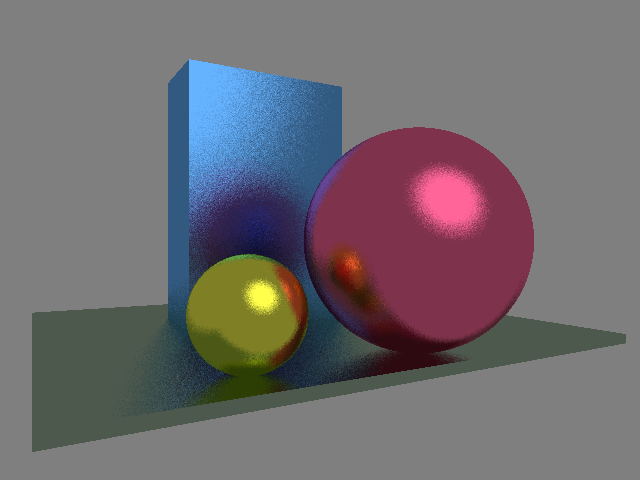
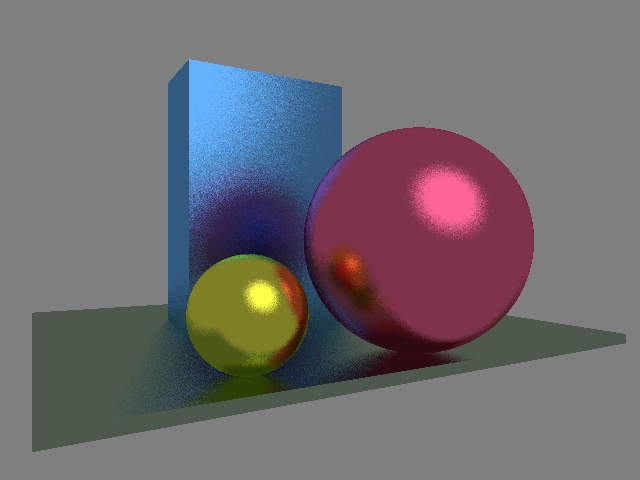
refactor(ray_tracer.c): replace vector operations with macros for clarity and performance   refactor(ray_tracer.c): consolidate object initialization by using arrays   refactor(ray_tracer.c): improve ray tracing logic by optimizing intersections and reflections   chore(ray_tracer.c): clean up commen

diff --git a/ray_tracer.c b/ray_tracer.c
@@ -1,9 +1,8 @@
 #include <stdio.h>
 #include <stdlib.h>
 #include <math.h>
-#include <string.h>
 
-// Include the stb_image_write header
+// stb_image_write.h included here
 #define STB_IMAGE_WRITE_IMPLEMENTATION
 #include "stb_image_write.h"
 
@@ -13,184 +12,137 @@
 #define MAX_DEPTH 3
 #define N_RAYS 10
 
+// Vector macros
+#define VEC_SUB(a,b,r) { r[0]=a[0]-b[0]; r[1]=a[1]-b[1]; r[2]=a[2]-b[2]; }
+#define VEC_ADD(a,b,r) { r[0]=a[0]+b[0]; r[1]=a[1]+b[1]; r[2]=a[2]+b[2]; }
+#define VEC_SCALE(v,s,r) { r[0]=v[0]*(s); r[1]=v[1]*(s); r[2]=v[2]*(s); }
+#define VEC_DOT(a,b) (a[0]*b[0]+a[1]*b[1]+a[2]*b[2])
+#define VEC_NORM(v) { double l=sqrt(VEC_DOT(v,v)); if(l>0){ v[0]/=l; v[1]/=l; v[2]/=l; } }
+
+// Random number between -1 and 1
+#define RAND_UNIFORM() (((double)rand() / RAND_MAX) * 2.0 - 1.0)
+
 // Ambient color
 double ambient_color[3] = {0.5, 0.5, 0.5};
 
-// Define object types
-typedef enum {
-    SPHERE,
-    BOX
-} ObjectType;
-
-// Object structure
-typedef struct {
-    ObjectType type;
-    double center[3]; // For spheres
-    double radius;    // For spheres
-    double min[3];    // For boxes
-    double max[3];    // For boxes
-    double color[3];
-    int hot;
-} Object;
-
-// Vector operations
-void vector_subtract(const double *a, const double *b, double *result) {
-    result[0] = a[0] - b[0];
-    result[1] = a[1] - b[1];
-    result[2] = a[2] - b[2];
-}
-
-void vector_add(const double *a, const double *b, double *result) {
-    result[0] = a[0] + b[0];
-    result[1] = a[1] + b[1];
-    result[2] = a[2] + b[2];
-}
-
-void vector_scale(const double *v, double scale, double *result) {
-    result[0] = v[0] * scale;
-    result[1] = v[1] * scale;
-    result[2] = v[2] * scale;
-}
-
-double vector_dot(const double *a, const double *b) {
-    return a[0]*b[0] + a[1]*b[1] + a[2]*b[2];
-}
-
-void vector_normalize(double *v) {
-    double norm = sqrt(vector_dot(v, v));
-    if (norm > 0) {
-        v[0] /= norm;
-        v[1] /= norm;
-        v[2] /= norm;
-    }
-}
-
-void vector_copy(const double *src, double *dest) {
-    dest[0] = src[0];
-    dest[1] = src[1];
-    dest[2] = src[2];
-}
-
-// Random number between -1 and 1
-double rand_uniform() {
-    return ((double)rand() / RAND_MAX) * 2.0 - 1.0;
-}
-
 // Sphere intersection
-int sphere_intersect(const double center[3], double radius, const double ray_origin[3], const double ray_direction[3],
+int sphere_intersect(const double center[3], double radius, const double ro[3], const double rd[3],
                      double *t_out, double point[3], double normal[3]) {
-    double z[3];
-    vector_subtract(center, ray_origin, z);
-    double proj = vector_dot(ray_direction, z);
-    double z_dot_z = vector_dot(z, z);
-    double delta = radius*radius + proj*proj - z_dot_z;
+    double oc[3]; VEC_SUB(ro, center, oc);
+    double b = VEC_DOT(oc, rd);
+    double c = VEC_DOT(oc, oc) - radius * radius;
+    double delta = b * b - c;
     if (delta < 0) return 0;
     double sqrt_delta = sqrt(delta);
-    double t = proj - sqrt_delta;
-    if (t < 1e-3) return 0;
+    double t = -b - sqrt_delta;
+    if (t < 1e-3) {
+        t = -b + sqrt_delta;
+        if (t < 1e-3) return 0;
+    }
     *t_out = t;
-    vector_scale(ray_direction, t, point);
-    vector_add(ray_origin, point, point);
-    vector_subtract(point, center, normal);
-    vector_scale(normal, 1.0 / radius, normal);
+    VEC_SCALE(rd, t, point); VEC_ADD(ro, point, point);
+    VEC_SUB(point, center, normal); VEC_NORM(normal);
     return 1;
 }
 
 // Box intersection
-int box_intersect(const double bmin[3], const double bmax[3], const double ray_origin[3], double ray_direction[3],
+int box_intersect(const double bmin[3], const double bmax[3], const double ro[3], const double rd[3],
                   double *t_out, double point[3], double normal[3]) {
     double tmin = -INFINITY, tmax = INFINITY;
     int hit_axis = -1;
     for (int i = 0; i < 3; i++) {
-        double direction = ray_direction[i];
-        if (fabs(direction) < 1e-3) direction = (direction >= 0) ? 1e-3 : -1e-3;
-        double invD = 1.0 / direction;
-        double t0 = (bmin[i] - ray_origin[i]) * invD;
-        double t1 = (bmax[i] - ray_origin[i]) * invD;
-        int sign = (invD < 0);
-        if (sign) {
-            double tmp = t0; t0 = t1; t1 = tmp;
-        }
+        double invD = 1.0 / rd[i];
+        double t0 = (bmin[i] - ro[i]) * invD;
+        double t1 = (bmax[i] - ro[i]) * invD;
+        if (invD < 0) { double tmp = t0; t0 = t1; t1 = tmp; }
         if (t0 > tmin) { tmin = t0; hit_axis = i; }
         if (t1 < tmax) tmax = t1;
         if (tmin > tmax) return 0;
     }
     if (tmin < 1e-3) return 0;
     *t_out = tmin;
-    vector_scale(ray_direction, tmin, point);
-    vector_add(ray_origin, point, point);
-    memset(normal, 0, 3 * sizeof(double));
-    normal[hit_axis] = -((ray_direction[hit_axis] > 0) ? 1 : -1);
+    VEC_SCALE(rd, tmin, point); VEC_ADD(ro, point, point);
+    normal[0] = normal[1] = normal[2] = 0;
+    normal[hit_axis] = (rd[hit_axis] > 0) ? -1 : 1;
     return 1;
 }
 
-// Scene intersection
-int scene_intersect(const double ray_origin[3], const double ray_direction[3],
-                    double point[3], double normal[3], double color[3], int *hot) {
-    int hit = 0;
-    double nearest = INFINITY;
-    double tmp_point[3], tmp_normal[3];
-    double t;
-    // Scene description
-    Object objects[] = {
-        {SPHERE, {6, 0, 7}, 2, {0}, {0}, {1.0, 0.4, 0.6}, 0},
-        {SPHERE, {2.8, 1.1, 7}, 0.9, {0}, {0}, {1.0, 1.0, 0.3}, 0},
-        {SPHERE, {5, -10, -7}, 8, {0}, {0}, {1.0, 1.0, 1.0}, 1},
-        {BOX, {0}, 0, {3, -4, 11}, {7, 2, 13}, {0.4, 0.7, 1.0}, 0},
-        {BOX, {0}, 0, {0, 2, 6}, {11, 2.2, 16}, {0.6, 0.7, 0.6}, 0}
-    };
-    int num_objects = sizeof(objects) / sizeof(Object);
-    for (int i = 0; i < num_objects; i++) {
-        Object *o = &objects[i];
-        int current_hit = 0;
-        if (o->type == SPHERE) {
-            current_hit = sphere_intersect(o->center, o->radius, ray_origin, ray_direction, &t, tmp_point, tmp_normal);
-        } else {
-            current_hit = box_intersect(o->min, o->max, ray_origin, ray_direction, &t, tmp_point, tmp_normal);
-        }
-        if (current_hit && t < nearest) {
-            nearest = t;
-            vector_copy(tmp_point, point);
-            vector_copy(tmp_normal, normal);
-            vector_copy(o->color, color);
-            *hot = o->hot;
-            hit = 1;
-        }
-    }
-    return hit;
-}
-
-// Reflect function
-void reflect(const double vector[3], const double normal[3], double result[3]) {
-    double dot = vector_dot(vector, normal);
-    double tmp[3];
-    vector_scale(normal, 2 * dot, tmp);
-    vector_subtract(vector, tmp, result);
-    // Add small random perturbation
-    double random_vec[3] = {rand_uniform() / 6.0, rand_uniform() / 6.0, rand_uniform() / 6.0};
-    vector_add(result, random_vec, result);
-    vector_normalize(result);
-}
-
 // Trace function
-void trace(const double ray_origin[3], const double ray_direction[3], int depth, double color_out[3]) {
+void trace(const double ro[3], const double rd[3], int depth, double color_out[3]) {
     if (depth > MAX_DEPTH) {
-        vector_copy(ambient_color, color_out);
+        color_out[0] = ambient_color[0];
+        color_out[1] = ambient_color[1];
+        color_out[2] = ambient_color[2];
         return;
     }
     double point[3], normal[3], color[3];
-    int hot = 0;
-    int hit = scene_intersect(ray_origin, ray_direction, point, normal, color, &hot);
+    int hot = 0, hit = 0;
+    double nearest = INFINITY, t;
+    double tmp_point[3], tmp_normal[3];
+
+    // Scene description
+    // Spheres
+    double spheres[3][7] = {
+        {6, 0, 7, 2, 1.0, 0.4, 0.6},
+        {2.8, 1.1, 7, 0.9, 1.0, 1.0, 0.3},
+        {5, -10, -7, 8, 1.0, 1.0, 1.0}
+    };
+    // Boxes
+    double boxes[2][9] = {
+        {3, -4, 11, 7, 2, 13, 0.4, 0.7, 1.0},
+        {0, 2, 6, 11, 2.2, 16, 0.6, 0.7, 0.6}
+    };
+
+    // Check spheres
+    for (int i = 0; i < 3; i++) {
+        if (sphere_intersect(&spheres[i][0], spheres[i][3], ro, rd, &t, tmp_point, tmp_normal)) {
+            if (t < nearest) {
+                nearest = t; hit = 1; hot = (i == 2);
+                color[0] = spheres[i][4]; color[1] = spheres[i][5]; color[2] = spheres[i][6];
+                // Update point and normal
+                point[0] = tmp_point[0]; point[1] = tmp_point[1]; point[2] = tmp_point[2];
+                normal[0] = tmp_normal[0]; normal[1] = tmp_normal[1]; normal[2] = tmp_normal[2];
+            }
+        }
+    }
+
+    // Check boxes
+    for (int i = 0; i < 2; i++) {
+        if (box_intersect(&boxes[i][0], &boxes[i][3], ro, rd, &t, tmp_point, tmp_normal)) {
+            if (t < nearest) {
+                nearest = t; hit = 1; hot = 0;
+                color[0] = boxes[i][6]; color[1] = boxes[i][7]; color[2] = boxes[i][8];
+                // Update point and normal
+                point[0] = tmp_point[0]; point[1] = tmp_point[1]; point[2] = tmp_point[2];
+                normal[0] = tmp_normal[0]; normal[1] = tmp_normal[1]; normal[2] = tmp_normal[2];
+            }
+        }
+    }
+
     if (!hit) {
-        vector_copy(ambient_color, color_out);
+        color_out[0] = ambient_color[0];
+        color_out[1] = ambient_color[1];
+        color_out[2] = ambient_color[2];
         return;
     }
     if (hot) {
-        vector_copy(color, color_out);
+        color_out[0] = color[0];
+        color_out[1] = color[1];
+        color_out[2] = color[2];
         return;
     }
+
+    // Reflect
     double reflected_dir[3];
-    reflect(ray_direction, normal, reflected_dir);
+    double dot = VEC_DOT(rd, normal);
+    VEC_SCALE(normal, 2 * dot, reflected_dir);
+    VEC_SUB(rd, reflected_dir, reflected_dir);
+    // Add small random perturbation
+    reflected_dir[0] += RAND_UNIFORM() / 6.0;
+    reflected_dir[1] += RAND_UNIFORM() / 6.0;
+    reflected_dir[2] += RAND_UNIFORM() / 6.0;
+    VEC_NORM(reflected_dir);
+
     double new_color[3];
     trace(point, reflected_dir, depth + 1, new_color);
     color_out[0] = color[0] * new_color[0];
@@ -198,34 +150,25 @@ void trace(const double ray_origin[3], const double ray_direction[3], int depth,
     color_out[2] = color[2] * new_color[2];
 }
 
-// Main function
 int main() {
-    // Set random seed for reproducibility
     srand(42);
-
-    double focal = 500;
-    double azimuth = 30 * M_PI / 180.0;
-
+    double focal = 500, azimuth = 30 * M_PI / 180.0;
     double eye[3] = {0, 0, 0};
-    double *image = (double *)calloc(WIDTH * HEIGHT * 3, sizeof(double));
+    double *image = calloc(WIDTH * HEIGHT * 3, sizeof(double));
 
     for (int r = 0; r < N_RAYS; r++) {
         printf("Pass %d/%d\n", r + 1, N_RAYS);
         for (int y = 0; y < HEIGHT; y++) {
             for (int x = 0; x < WIDTH; x++) {
-                double x_screen = x - WIDTH / 2;
-                double y_screen = y - HEIGHT / 2;
-                double z_screen = focal;
-
-                double dir[3];
-                dir[0] = cos(azimuth) * x_screen + sin(azimuth) * z_screen;
-                dir[1] = y_screen;
-                dir[2] = -sin(azimuth) * x_screen + cos(azimuth) * z_screen;
-                vector_normalize(dir);
-
+                double x_screen = x - WIDTH / 2, y_screen = y - HEIGHT / 2, z_screen = focal;
+                double dir[3] = {
+                    cos(azimuth) * x_screen + sin(azimuth) * z_screen,
+                    y_screen,
+                    -sin(azimuth) * x_screen + cos(azimuth) * z_screen
+                };
+                VEC_NORM(dir);
                 double color[3];
                 trace(eye, dir, 0, color);
-
                 int idx = (y * WIDTH + x) * 3;
                 image[idx + 0] += color[0];
                 image[idx + 1] += color[1];
@@ -234,27 +177,18 @@ int main() {
         }
     }
 
-    // Prepare image data for saving
-    unsigned char *output_image = (unsigned char *)malloc(WIDTH * HEIGHT * 3);
-    for (int i = 0; i < WIDTH * HEIGHT; i++) {
-        int r = (int)(fmin(image[i * 3 + 0] / N_RAYS, 1.0) * 255);
-        int g = (int)(fmin(image[i * 3 + 1] / N_RAYS, 1.0) * 255);
-        int b = (int)(fmin(image[i * 3 + 2] / N_RAYS, 1.0) * 255);
-        output_image[i * 3 + 0] = (unsigned char)r;
-        output_image[i * 3 + 1] = (unsigned char)g;
-        output_image[i * 3 + 2] = (unsigned char)b;
-    }
+    // Prepare image data
+    unsigned char *output_image = malloc(WIDTH * HEIGHT * 3);
+    for (int i = 0; i < WIDTH * HEIGHT * 3; i++)
+        output_image[i] = (unsigned char)(fmin(image[i] / N_RAYS, 1.0) * 255);
 
-    // Save the image using stb_image_write
-    if (stbi_write_png("result.png", WIDTH, HEIGHT, 3, output_image, WIDTH * 3)) {
+    // Save the image
+    if (stbi_write_png("result.png", WIDTH, HEIGHT, 3, output_image, WIDTH * 3))
         printf("Image saved to 'result.png'\n");
-    } else {
+    else
         fprintf(stderr, "Failed to save image\n");
-    }
 
-    // Clean up
     free(image);
     free(output_image);
-
     return 0;
 }
